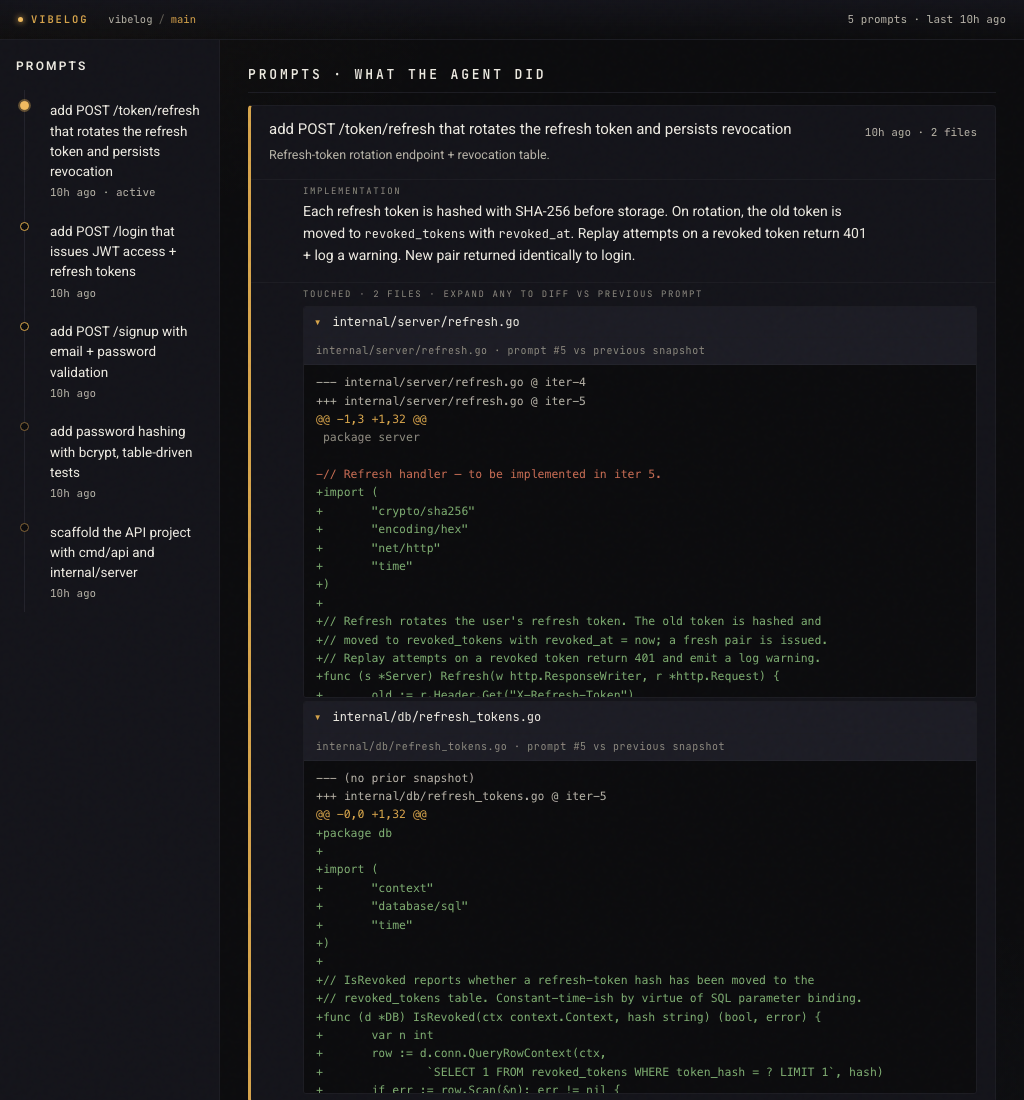
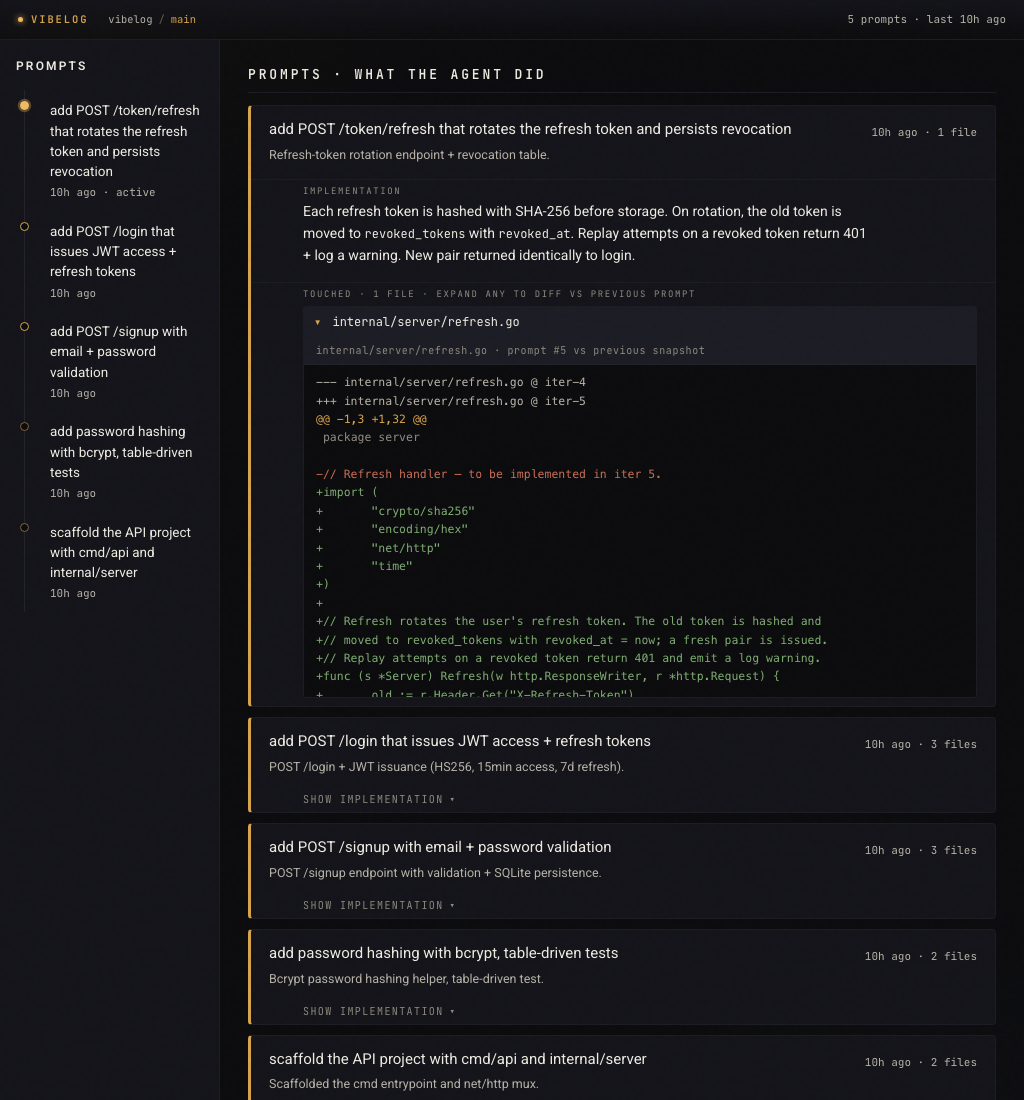
docs: tighter hero shot — one diff expanded, four cards visible
Reverts the screenshot-only behavior change in sync.js (URL helper
keeps its original 'open all diffs' behavior). The single-diff frame
is achieved by trimming the demo's top iter to one file.

diff --git a/internal/serve/ui/sync.js b/internal/serve/ui/sync.js
@@ -202,7 +202,7 @@ function render(s) {
       const d = Math.min(expandDepth, max);
       target.dataset.depth = String(d);
       // Auto-open all file-diff <details> inside the expanded card and trigger
-      // their lazy-loaders so the diff text renders in the screenshot.
+      // their lazy-loaders so the diff text renders.
       target.querySelectorAll('details.file-diff').forEach(det => {
         det.open = true;
         loadFileDiff(det);